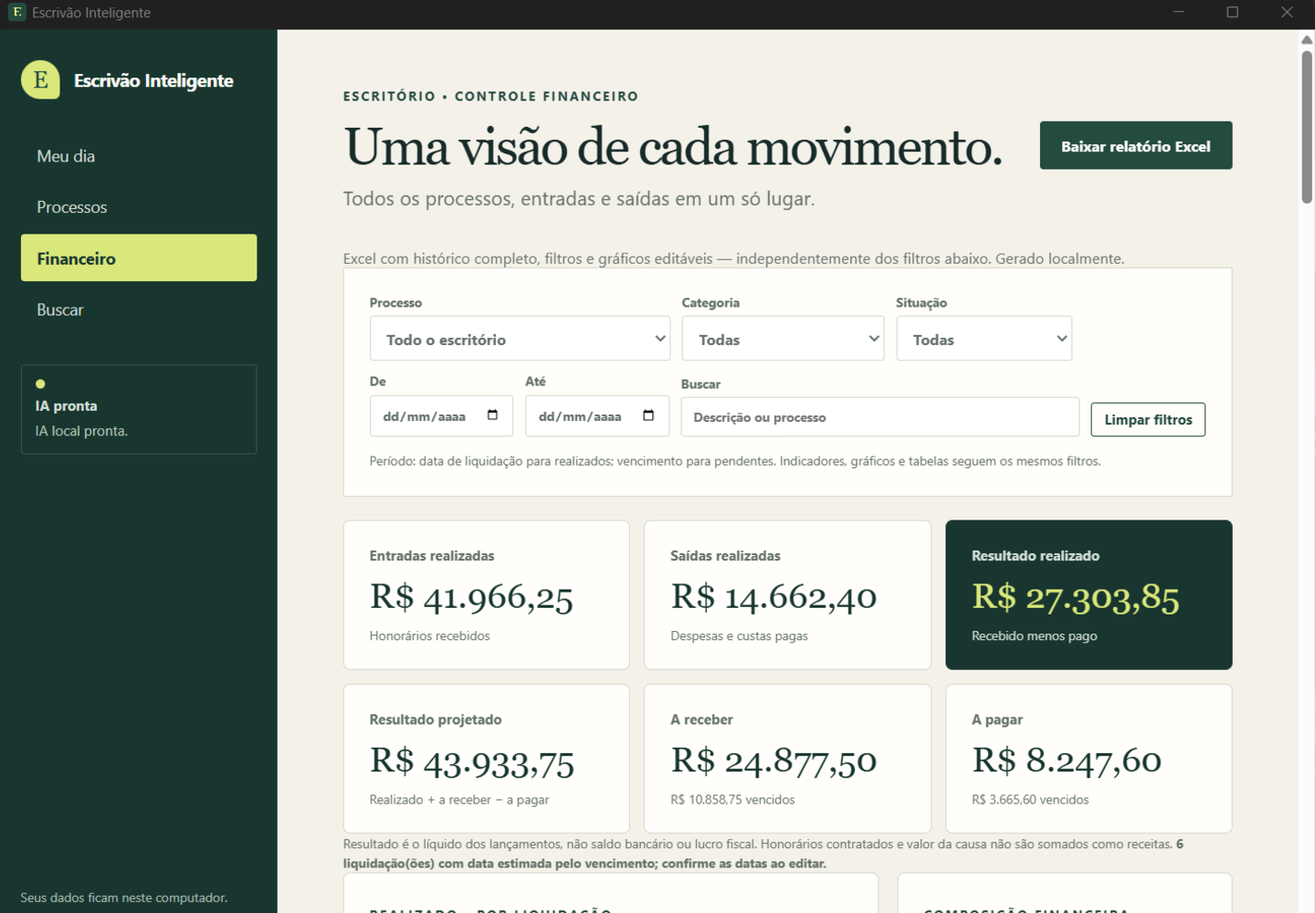
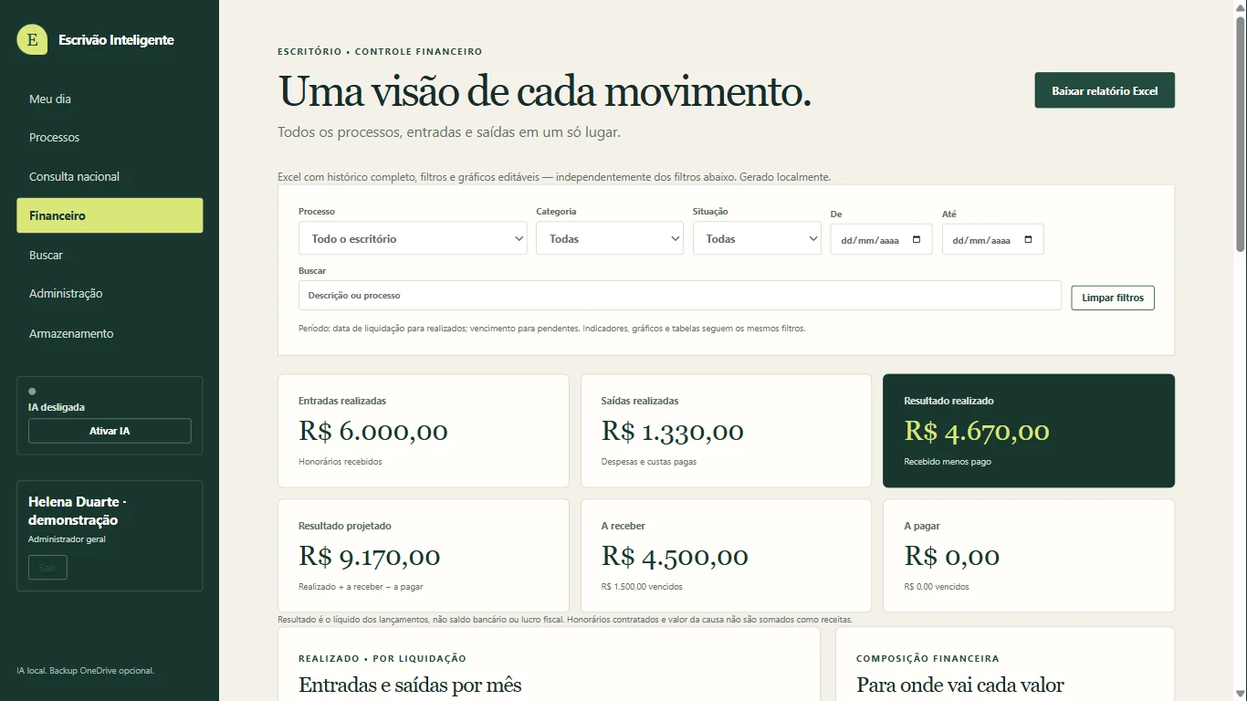
Update

diff --git a/index.html b/index.html
@@ -5,9 +5,9 @@
   <meta name="viewport" content="width=device-width, initial-scale=1">
   <meta name="theme-color" content="#18362f">
   <title>Escrivão Inteligente — seu escritório, com mais clareza</title>
-  <meta name="description" content="Processos, prazos, documentos e financeiro em um aplicativo para Windows. Conheça as telas, os relatórios Excel e a IA local do Escrivão Inteligente.">
+  <meta name="description" content="Gestão jurídica no Windows com IA local, consulta DataJud, conta Microsoft e backups particulares no OneDrive. Conheça os recursos e as telas demonstrativas.">
   <meta property="og:title" content="Escrivão Inteligente — seu escritório, com mais clareza">
-  <meta property="og:description" content="Da agenda ao financeiro, organize a rotina jurídica com documentos pesquisáveis e apoio de IA local no Windows.">
+  <meta property="og:description" content="Processos, documentos, financeiro e monitoramento DataJud, com IA local, conta Microsoft e backup opcional no seu OneDrive.">
   <meta property="og:type" content="website">
   <meta property="og:locale" content="pt_BR">
   <link rel="stylesheet" href="style.css">
@@ -33,20 +33,20 @@
       <div class="hero-content">
         <span class="eyebrow"><span class="status-dot" aria-hidden="true"></span> Para a advocacia · aplicativo Windows</span>
         <h1>Seu escritório.<br>Mais organizado.<br><em>Mais inteligente.</em></h1>
-        <p class="hero-copy">Do primeiro compromisso ao controle dos honorários: reúna processos, documentos e finanças em um só lugar. Com IA local para apoiar o trabalho — e você no controle de cada decisão.</p>
+        <p class="hero-copy">Da agenda ao acompanhamento processual: reúna processos, documentos e finanças, consulte metadados públicos do DataJud e trabalhe com IA local. Entre com sua conta Microsoft e mantenha backups no seu OneDrive — com você no controle.</p>
         <div class="hero-actions">
           <a class="button" href="https://apps.microsoft.com/detail/9NN8680NV66S" target="_blank" rel="noopener noreferrer">Conhecer na Microsoft Store <span aria-hidden="true">↗</span></a>
           <a class="text-link" href="#telas">Veja o app por dentro <span aria-hidden="true">↓</span></a>
         </div>
-        <p class="trial-note">Consulte preço, disponibilidade e condições de compra na Store.</p>
-        <ul class="hero-points" aria-label="Destaques"><li>Dados no dispositivo</li><li>Relatórios Excel</li><li>IA executada localmente</li></ul>
+        <p class="trial-note">Esta página apresenta o estado atual do desenvolvimento local. Novos recursos dependem de publicação de um novo pacote para chegar à Store. Consulte preço e disponibilidade na loja.</p>
+        <ul class="hero-points" aria-label="Destaques"><li>IA local</li><li>Consulta DataJud opt-in</li><li>Backup no seu OneDrive</li></ul>
       </div>
       <figure class="hero-preview">
-        <div class="preview-label"><span class="status-dot" aria-hidden="true"></span> UMA VISÃO DO SEU DIA <span>01 / 03</span></div>
-        <a class="screenshot-link" href="assets/meu-dia.webp" target="_blank" rel="noopener" aria-label="Abrir captura de Meu dia em tamanho completo (nova aba)">
-          <img src="assets/meu-dia.webp" width="1440" height="1000" alt="Tela Meu dia com compromissos de hoje, próximos sete dias e formulário para um novo compromisso." fetchpriority="high">
+        <div class="preview-label"><span class="status-dot" aria-hidden="true"></span> UMA VISÃO DO SEU DIA <span>DEMONSTRAÇÃO</span></div>
+        <a class="screenshot-link" href="assets/meu-dia.webp?v=20261027-tipografia" target="_blank" rel="noopener" aria-label="Abrir captura de Meu dia em tamanho completo (nova aba)">
+          <img src="assets/meu-dia.webp?v=20261027-tipografia" width="1366" height="768" alt="Tela Meu dia com compromissos de hoje, próximos sete dias e formulário para um novo compromisso." fetchpriority="high">
         </a>
-        <figcaption>Interface real · dados fictícios · captura no modo navegador</figcaption>
+        <figcaption>Interface atual · dados fictícios · 1366 × 768 · desktop simulado</figcaption>
         <div class="preview-note"><span aria-hidden="true">↗</span><div><strong>Comece pelo que importa hoje.</strong><span>Prazos, audiências e tarefas à vista.</span></div></div>
       </figure>
     </section>
@@ -68,10 +68,13 @@
         <div class="resource-grid">
           <article class="morning-card"><span class="card-number">01 / AGENDA</span><h3>Saiba o que pede atenção.</h3><p>Meu dia separa compromissos atrasados, de hoje e dos próximos sete dias. Cadastre prazos, audiências e tarefas, vincule ao processo e marque a conclusão.</p><span class="card-foot">Uma visão prática das prioridades</span></article>
           <article class="morning-card"><span class="card-number">02 / PROCESSOS</span><h3>O contexto de cada caso.</h3><p>Reúna cliente, partes, área, tribunal ou vara, situação, datas, valor da causa e honorários contratados. Filtre os cadastros e abra os detalhes do processo.</p><span class="card-foot">Informação conectada ao trabalho</span></article>
-          <article class="morning-card"><span class="card-number">03 / DOCUMENTOS E OCR</span><h3>Do digitalizado ao pesquisável.</h3><p>A nova versão local lê PDFs digitais, digitalizados e mistos, além de imagens PNG e JPG, com OCR em português e inglês. DOCX, TXT e MD continuam disponíveis. Consulte o texto por página e confira o original.</p><span class="card-foot">OCR local · sem envio de documentos</span></article>
-          <article class="morning-card"><span class="card-number">04 / BUSCA GLOBAL</span><h3>Procure além do nome do arquivo.</h3><p>Busque processos, clientes, compromissos e lançamentos financeiros. No desktop, encontre também trechos de documentos, com indicação de página ou trecho.</p><span class="card-foot">Do resultado ao registro de origem</span></article>
+          <article class="morning-card"><span class="card-number">03 / DOCUMENTOS E OCR</span><h3>Do digitalizado ao pesquisável.</h3><p>O desktop lê PDFs digitais, digitalizados e mistos, além de imagens PNG e JPG, com OCR em português e inglês. DOCX, TXT e MD também estão disponíveis. Consulte o texto por página e confira o original.</p><span class="card-foot">OCR local · sem envio de documentos</span></article>
+          <article class="morning-card"><span class="card-number">04 / BUSCA GLOBAL</span><h3>Procure além do nome do arquivo.</h3><p>Busque processos, clientes, compromissos, lançamentos financeiros e dados judiciais salvos. No desktop, encontre também trechos de documentos, com indicação de página ou trecho.</p><span class="card-foot">Do resultado ao registro de origem</span></article>
           <article class="morning-card"><span class="card-number">05 / FINANCEIRO</span><h3>Enxergue cada movimento.</h3><p>Acompanhe honorários, despesas e custas. Veja valores realizados, pendências e vencidos, com filtros por processo, categoria, situação e período.</p><span class="card-foot">Visão do escritório e de cada processo</span></article>
           <article class="morning-card"><span class="card-number">06 / IA LOCAL</span><h3>Um ponto de partida melhor.</h3><p>Faça perguntas com apoio dos registros e trechos recuperados, resuma documentos e prepare rascunhos. Confira as fontes e revise antes de usar.</p><span class="card-foot">Apoio à análise, não uma decisão jurídica</span></article>
+          <article class="morning-card"><span class="card-number">07 / CONSULTA NACIONAL</span><h3>Do CNJ à linha do tempo.</h3><p>Valide o número CNJ, identifique o tribunal e consulte metadados públicos no DataJud. Veja instâncias e movimentações, vincule ao processo local e arquive extratos no ECM.</p><span class="card-foot">Fonte e data da consulta sempre identificadas</span></article>
+          <article class="morning-card"><span class="card-number">08 / MONITORAMENTO</span><h3>Novidades para revisar.</h3><p>Sincronize processos monitorados, acompanhe mudanças entre consultas e crie tarefas de revisão. Configure cache e agendamento enquanto o aplicativo estiver aberto e o administrador conectado.</p><span class="card-foot">Não substitui intimações nem calcula prazos</span></article>
+          <article class="morning-card"><span class="card-number">09 / CONTA E BACKUP</span><h3>Seu acesso. Suas cópias.</h3><p>Um administrador vinculado à conta Microsoft, autenticação pelo Windows com alternativa pelo navegador e cópias completas opcionais na pasta local do seu OneDrive.</p><span class="card-foot">Sem cadastro de aplicativo pelo usuário final</span></article>
         </div>
       </div>
     </section>
@@ -80,15 +83,31 @@
       <div class="wrap">
         <div class="section-heading">
           <div><span class="eyebrow">O app por dentro</span><h2>Não é só uma ideia.<br>É a sua próxima tela.</h2></div>
-          <p class="section-intro">Capturas reais da interface atual, preenchidas exclusivamente com dados fictícios. Feitas no modo navegador; importação de documentos e IA são recursos do aplicativo desktop. Toque nas imagens para ampliar em uma nova aba.</p>
+          <p class="section-intro">Interface atual com tipografia mais compacta, capturada em 1366 × 768, resolução comum em notebooks de 15 polegadas. Todas as telas usam dados fictícios e uma ponte desktop simulada no navegador: não demonstram uma sessão Microsoft, consulta judicial ou backup reais. Toque para ampliar em uma nova aba.</p>
         </div>
         <article class="screen-row">
           <div class="screen-copy"><span class="card-number">01 / PROCESSOS</span><h3>Cada caso com o seu contexto.</h3><p>Consulte os processos e seus dados principais sem começar uma nova busca a cada tarefa. O cadastro reúne informações jurídicas e financeiras para facilitar a continuidade do trabalho.</p><ul class="check-list"><li>Cliente, área e situação do processo</li><li>Valor da causa e honorários contratados</li><li>Compromissos e documentos vinculados</li></ul></div>
-          <figure class="screen-frame"><a class="screenshot-link" href="assets/processos.webp" target="_blank" rel="noopener" aria-label="Ampliar captura da tela Processos (nova aba)"><img src="assets/processos.webp" alt="Lista de três processos fictícios nas áreas cível, trabalhista e família, com clientes, honorários e situação." width="1440" height="1000" loading="lazy" decoding="async"></a><figcaption>Processos · interface real com dados fictícios</figcaption></figure>
+          <figure class="screen-frame"><a class="screenshot-link" href="assets/processos.webp?v=20261027-tipografia" target="_blank" rel="noopener" aria-label="Ampliar captura da tela Processos (nova aba)"><img src="assets/processos.webp?v=20261027-tipografia" alt="Lista de três processos fictícios nas áreas cível, trabalhista e família, com clientes, honorários e situação." width="1366" height="768" loading="lazy" decoding="async"></a><figcaption>Processos · interface real com dados fictícios</figcaption></figure>
         </article>
         <article class="screen-row screen-row-reverse">
           <div class="screen-copy"><span class="card-number">02 / FINANCEIRO</span><h3>Do lançamento à visão do escritório.</h3><p>Entenda o que já entrou, o que saiu e o que ainda está pendente. Consulte indicadores, gráficos e tabelas com os mesmos filtros, sem desconectar os números dos processos.</p><ul class="check-list"><li>Entradas, saídas e resultado realizado</li><li>Pendências e valores vencidos</li><li>Análises por mês, categoria e processo</li></ul></div>
-          <figure class="screen-frame"><a class="screenshot-link" href="assets/financeiro.webp?v=46670eb1058f" target="_blank" rel="noopener" aria-label="Ampliar captura do painel Financeiro (nova aba)"><img src="assets/financeiro.webp?v=46670eb1058f" alt="Painel financeiro com filtros, indicadores de entradas e saídas, pendências e gráficos de movimentações fictícias." width="1440" height="1000" loading="lazy" decoding="async"></a><figcaption>Financeiro · valores ilustrativos, não resultados de clientes</figcaption></figure>
+          <figure class="screen-frame"><a class="screenshot-link" href="assets/financeiro.webp?v=20261027-tipografia" target="_blank" rel="noopener" aria-label="Ampliar captura do painel Financeiro (nova aba)"><img src="assets/financeiro.webp?v=20261027-tipografia" alt="Painel financeiro com filtros, indicadores de entradas e saídas, pendências e gráficos de movimentações fictícias." width="1366" height="768" loading="lazy" decoding="async"></a><figcaption>Financeiro · valores ilustrativos, não resultados de clientes</figcaption></figure>
+        </article>
+        <article class="screen-row">
+          <div class="screen-copy"><span class="card-number">03 / CONSULTA NACIONAL</span><h3>Acompanhe o processo, com a fonte à vista.</h3><p>Da consulta à revisão de novidades: mantenha metadados públicos do CNJ junto ao trabalho local, sem sobrescrever o cadastro existente.</p><ul class="check-list"><li>Tribunal, instâncias, origem e data da consulta</li><li>Movimentações, monitoramento e tarefas de revisão</li><li>Extratos no ECM e contexto para a IA local</li></ul></div>
+          <figure class="screen-frame"><a class="screenshot-link" href="assets/consulta-nacional.webp?v=20261027-tipografia" target="_blank" rel="noopener" aria-label="Ampliar demonstração da Consulta nacional (nova aba)"><img src="assets/consulta-nacional.webp?v=20261027-tipografia" alt="Demonstração da consulta nacional com metadados fictícios, movimentações e ações de vínculo ao ECM e monitoramento." width="1366" height="768" loading="lazy" decoding="async"></a><figcaption>Interface atual · ponte desktop simulada · nenhum processo real consultado</figcaption></figure>
+        </article>
+        <article class="screen-row screen-row-reverse">
+          <div class="screen-copy"><span class="card-number">04 / MONITOR PROCESSUAL</span><h3>Uma novidade.<br>Um próximo passo.</h3><p>Revise o que mudou desde a consulta anterior, filtre por cliente, processo, tribunal e período de detecção e transforme uma novidade em tarefa com data informada por você.</p><ul class="check-list"><li>Sincronização dos processos monitorados</li><li>Data do ato e data de detecção separadas</li><li>Revisão explícita, sem confundir com intimação</li></ul></div>
+          <figure class="screen-frame"><a class="screenshot-link" href="assets/monitor-processual.webp?v=20261027-tipografia" target="_blank" rel="noopener" aria-label="Ampliar demonstração do monitor processual (nova aba)"><img src="assets/monitor-processual.webp?v=20261027-tipografia" alt="Monitor processual com filtros, sincronização demonstrativa e uma movimentação fictícia pendente de revisão, com ação para criar tarefa." width="1366" height="768" loading="lazy" decoding="async"></a><figcaption>Interface atual · sincronização e novidade simuladas · dados fictícios</figcaption></figure>
+        </article>
+        <article class="screen-row">
+          <div class="screen-copy"><span class="card-number">05 / ARMAZENAMENTO</span><h3>O trabalho fica local.<br>A cópia vai com você.</h3><p>Escolha o computador ou uma USB removível para o repositório ativo. Autorize backups consistentes na sua pasta OneDrive, com banco e documentos originais verificados.</p><ul class="check-list"><li>Uma cópia diária ao abrir, após ativação</li><li>Backup manual em pasta datada independente</li><li>Sincronização e versões geridas pelo OneDrive</li></ul></div>
+          <figure class="screen-frame"><a class="screenshot-link" href="assets/armazenamento.webp?v=20261027-tipografia" target="_blank" rel="noopener" aria-label="Ampliar demonstração de armazenamento e backup (nova aba)"><img src="assets/armazenamento.webp?v=20261027-tipografia" alt="Demonstração de armazenamento local e USB, com backup diário no OneDrive ativado e botão para gerar nova cópia." width="1366" height="768" loading="lazy" decoding="async"></a><figcaption>Interface atual · conta, caminhos e confirmação de backup fictícios</figcaption></figure>
+        </article>
+        <article class="screen-row screen-row-reverse">
+          <div class="screen-copy"><span class="card-number">06 / CONTA MICROSOFT</span><h3>Um administrador.<br>A sua conta Microsoft.</h3><p>O registro usa a integração do Windows para autenticar a conta Microsoft. A Microsoft pode solicitar senha, seleção de conta e segundo fator; se o acesso nativo falhar, há uma alternativa explícita pelo navegador.</p><ul class="check-list"><li>Contas pessoais e organizacionais compatíveis</li><li>Sem senha local nem configuração de Entra pelo usuário</li><li>OneDrive configurado e autorizado separadamente</li></ul></div>
+          <figure class="screen-frame"><a class="screenshot-link" href="assets/conta-microsoft.webp?v=20261027-tipografia" target="_blank" rel="noopener" aria-label="Ampliar demonstração da conta Microsoft (nova aba)"><img src="assets/conta-microsoft.webp?v=20261027-tipografia" alt="Administração com uma conta Microsoft fictícia vinculada como administrador geral e orientação sobre a conta OneDrive." width="1366" height="768" loading="lazy" decoding="async"></a><figcaption>Interface atual · identidade fictícia · nenhuma autenticação real realizada</figcaption></figure>
         </article>
         <div class="export-callout"><div><span class="eyebrow">Seus números também fora do app</span><h3>Um relatório Excel que continua útil.</h3><p>Exporte o histórico financeiro completo em .xlsx, com filtros e gráficos editáveis, gerado localmente. A exportação inclui todos os lançamentos, independentemente dos filtros ativos no painel.</p></div><span class="file-chip" aria-label="Formato Excel">.xlsx <span aria-hidden="true">↗</span></span></div>
       </div>
@@ -98,7 +117,7 @@
       <div class="wrap spread">
         <div><span class="eyebrow">Inteligência artificial, com critério</span><h2>Um apoio para começar.<br><em>O julgamento continua seu.</em></h2><p class="section-intro">No desktop, a IA roda no próprio computador usando o runtime llama.cpp. Ela apoia a consulta ao acervo e a preparação de conteúdo, sem substituir a análise profissional.</p><a class="text-link" href="#duvidas">Entenda os recursos e os limites <span aria-hidden="true">↗</span></a></div>
         <div class="ai-steps">
-          <article><span>01</span><div><h3>Pergunte com contexto</h3><p>Consulte informações do escritório e trechos recuperados. Use as fontes apresentadas para conferir a resposta.</p></div></article>
+          <article><span>01</span><div><h3>Pergunte com contexto</h3><p>Consulte informações do escritório, trechos recuperados e metadados judiciais de processos vinculados. Peça explicações de movimentações e linhas do tempo, conferindo fonte, tribunal e datas.</p></div></article>
           <article><span>02</span><div><h3>Resuma e prepare rascunhos</h3><p>Use os documentos como ponto de partida para resumos e tipos predefinidos de rascunhos. Continue trabalhando enquanto a IA executa a tarefa.</p></div></article>
           <article><span>03</span><div><h3>Revise e leve para o Word</h3><p>Confira o texto, confronte o documento original e exporte o conteúdo gerado em .docx para continuar a edição.</p></div></article>
         </div>
@@ -109,14 +128,14 @@
       <div class="wrap">
         <div class="section-heading">
           <div><span class="eyebrow">Local por arquitetura</span><h2>Seus dados de trabalho,<br>no seu dispositivo.</h2></div>
-          <p class="section-intro">No aplicativo desktop, o banco, os documentos importados e o índice de pesquisa ficam na área de dados local. A IA processa as solicitações em um servidor local no próprio computador.</p>
+          <p class="section-intro">O banco, os documentos e o índice ficam no computador ou em uma USB removível escolhida. A IA roda neste computador. Você decide se autoriza consultas DataJud e backups na pasta local do seu OneDrive.</p>
         </div>
         <div class="privacy-grid">
-          <article class="privacy-card"><span>01</span><h3>Sem nuvem própria de processos</h3><p>O app atual não implementa um serviço próprio de sincronização ou armazenamento dos casos em nuvem.</p></article>
-          <article class="privacy-card"><span>02</span><h3>Proteção também é rotina</h3><p>O aplicativo não oferece criptografia própria em repouso nem backup integrado. Proteja o dispositivo e mantenha cópias de segurança.</p></article>
+          <article class="privacy-card"><span>01</span><h3>Backup particular, opcional</h3><p>As cópias completas vão para OneDrive → Escrivão Inteligente → Backups. O cliente OneDrive gerencia o envio à nuvem e seu histórico; isso não sincroniza o repositório ativo entre computadores.</p></article>
+          <article class="privacy-card"><span>02</span><h3>Proteção também é rotina</h3><p>O app não adiciona criptografia ao banco, aos documentos ou aos backups. Proteja o disco, use segundo fator na conta e evite compartilhar a pasta. Uma chave DataJud própria é protegida pelo Windows e não integra o backup.</p></article>
           <article class="privacy-card"><span>03</span><h3>Transparência antes da compra</h3><p>Arquitetura local não é certificação de segurança ou garantia de conformidade com a LGPD. Conheça a <a href="politica-de-privacidade.html">política de privacidade</a>.</p></article>
         </div>
-        <p class="privacy-foot">Não prometemos ausência total de tráfego externo: instalação, atualização e licenciamento podem envolver a Microsoft Store e componentes do Windows.</p>
+        <p class="privacy-foot">Há tráfego externo para autenticação Microsoft, serviços da Store e Windows, sincronização OneDrive autorizada e consultas DataJud opt-in. Uma consulta envia o número CNJ ao CNJ; os documentos do acervo não são enviados ao DataJud.</p>
       </div>
     </section>
 
@@ -124,7 +143,11 @@
       <div class="wrap faq-layout">
         <div><span class="eyebrow">Decida com clareza</span><h2>Antes de trazer<br>o app para sua rotina.</h2><p class="section-intro">Recursos atuais, limites claros e nenhuma promessa de resultado automático.</p><a class="text-link" href="mailto:marcos.nunes.lph@outlook.com">Falar com o desenvolvedor <span aria-hidden="true">↗</span></a></div>
         <div class="faq-list">
-          <details open><summary>Para quem é o Escrivão Inteligente?</summary><p>Para profissionais da advocacia que buscam organização local de processos, compromissos, documentos e finanças no Windows. O produto atual não oferece sincronização em nuvem ou colaboração multiusuário.</p></details>
+          <details open><summary>Para quem é o Escrivão Inteligente?</summary><p>Para profissionais da advocacia que buscam gestão local no Windows, com um único administrador Microsoft. O backup opcional no OneDrive não é colaboração multiusuário nem sincronização do banco ativo entre dispositivos.</p></details>
+          <details><summary>Preciso registrar um aplicativo na Microsoft para entrar?</summary><p>Não. A integração já acompanha o aplicativo. Clique para registrar com Microsoft e conclua a autenticação solicitada pelo Windows, incluindo senha ou segundo fator quando exigidos. Há alternativa pelo navegador após falha do acesso nativo. A conta autorizada na pasta OneDrive deve ser conferida separadamente.</p></details>
+          <details><summary>O que a Consulta nacional realmente consulta?</summary><p>Após autorização em Administração → Integrações Processuais, o app consulta a API pública DataJud, com validação do CNJ, cache, tentativas controladas e identificação da fonte. O retorno pode estar atrasado e não inclui processos sigilosos, partes, advogados nem inteiro teor. Não é uma conexão direta universal com PJe, Eproc, e-SAJ ou Projudi. Esses conectores dependem de contrato e acesso autorizado; o SCMPP do TJPR, por exemplo, exige adesão formal e credenciais.</p></details>
+          <details><summary>O monitoramento substitui o acompanhamento de intimações?</summary><p>Não. Ele detecta mudanças entre consultas salvas, permite revisão e criação de tarefas e executa sincronização manual, em lote ou agendada com o app aberto e o administrador conectado. Não é um serviço em segundo plano do Windows, não recebe intimações oficiais nem calcula prazos legais.</p></details>
+          <details><summary>Como funciona o backup no OneDrive?</summary><p>Ao autorizar uma pasta OneDrive, o app gera uma cópia consistente do banco e dos documentos, imediatamente, uma vez por dia ao abrir e sob demanda. Cada backup ocupa uma pasta datada independente. Confirme a sincronização no cliente OneDrive: envio à nuvem, cota e histórico dependem dele e da conta. Não use a pasta de backup como repositório ativo nem abra a mesma base em dois computadores.</p></details>
           <details><summary>O aplicativo funciona no celular?</summary><p>Este site se adapta a celular, tablet e computador. O produto apresentado é um aplicativo desktop para Windows. O modo navegador do app é limitado: mantém cadastros básicos localmente, mas importação, leitura e busca documental e IA exigem o desktop.</p></details>
           <details><summary>A IA precisa enviar os documentos para a nuvem?</summary><p>O fluxo atual usa o modelo Qwen3-4B, em formato GGUF quantizado Q4_K_M, executado pelo llama.cpp no próprio computador. Perguntas, instruções e trechos são processados pelo servidor local. A velocidade depende do hardware; não há garantia de desempenho igual em todos os dispositivos.</p></details>
           <details><summary>Como funciona a leitura de PDFs e imagens por OCR?</summary><p>O OCR está implementado na nova versão local do desktop; sua disponibilidade na Microsoft Store depende da atualização do pacote publicado. PDFs mantêm o texto nativo quando a página tem texto suficiente; nas demais páginas, o Tesseract reconhece a imagem localmente, em português e inglês. PNG, JPG e JPEG também são aceitos, junto de DOCX, TXT e MD, até 200 MB por arquivo. Os modelos acompanham o aplicativo, sem download durante a leitura. A origem e a confiança do reconhecimento aparecem no leitor, com aviso abaixo de 70% ou quando não há texto reconhecido. Nitidez, orientação e diagramação afetam o resultado; revise sempre o original. Não há garantia de leitura de manuscritos ou de qualquer PDF. A busca continua por palavras-chave, não semântica.</p></details>

diff --git a/politica-de-privacidade.html b/politica-de-privacidade.html
@@ -20,7 +20,7 @@
   <main class="wrap">
     <span class="eyebrow">Documento legal</span>
     <h1>Política de Privacidade</h1>
-    <p class="updated">Última atualização: 25 de outubro de 2026</p>
+    <p class="updated">Última atualização: 27 de outubro de 2026</p>
 
     <div class="notice">Esta política descreve o comportamento atualmente observado no aplicativo. O Escrivão Inteligente está em evolução; consulte também as limitações do produto e as condições de licenciamento da Microsoft Store.</div>
 
@@ -54,8 +54,10 @@
 
       <section id="s3">
         <h2>3. Armazenamento no aplicativo desktop</h2>
-        <p>Na versão desktop observada, o banco SQLite, os arquivos importados e os dados de pesquisa são armazenados localmente na área de dados do aplicativo no Windows. A busca indexa texto extraído para localizar trechos e páginas. Não há serviço próprio de sincronização ou armazenamento em nuvem implementado no aplicativo.</p>
+        <p>O banco SQLite, os arquivos importados e os dados de pesquisa ficam na área de dados do aplicativo no Windows ou em uma USB removível elegível escolhida pelo administrador. A busca indexa texto extraído para localizar trechos e páginas. A versão em desenvolvimento oferece backups completos opcionais na pasta local do OneDrive do usuário, após confirmação da conta e autorização explícita. A disponibilidade na Store depende da atualização do pacote publicado.</p>
+        <p>Quando habilitados, os backups incluem banco, documentos, usuários e auditoria: são criados imediatamente, uma vez por dia ao abrir e por solicitação manual. O cliente OneDrive do Windows pode enviá-los à conta Microsoft escolhida, conforme sua configuração, cota e políticas. O aplicativo não confirma o envio remoto nem fornece serviço próprio de nuvem. As cópias não recebem criptografia adicional pelo aplicativo; confira conta, compartilhamento e sincronização.</p>
         <p>Isso não significa que o produto tenha sido certificado como totalmente offline: o tráfego de rede do pacote distribuído não foi auditado integralmente. A instalação, a atualização e a validação de licença podem envolver a Microsoft Store e componentes do Windows.</p>
+        <p>A integração processual DataJud é opcional e desativada por padrão. Quando autorizada, envia o número CNJ consultado à API oficial do Conselho Nacional de Justiça e obtém a chave pública na Wiki oficial. Os metadados e movimentações retornados ficam no repositório local e podem integrar seus backups. Não são enviados ao desenvolvedor nem a uma IA externa. O serviço público não fornece partes, advogados ou documentos integrais; ausência de resultado não comprova inexistência de processo. Uma chave personalizada é protegida pelo perfil Windows e não integra os backups do repositório. O agendamento só executa com o aplicativo aberto e o administrador conectado. Consultas não substituem intimações oficiais nem garantem atualização imediata.</p>
         <p>O modo navegador é limitado: dados básicos ficam no armazenamento local daquele navegador. Importação, leitura e busca de documentos e recursos de IA exigem o aplicativo desktop.</p>
       </section>
 
@@ -68,15 +70,16 @@
 
       <section id="s5">
         <h2>5. Diagnósticos e conexões externas</h2>
+        <p>O aplicativo usa autenticação Microsoft integrada ao Windows (WAM) para o administrador geral, com contas pessoais ou de trabalho/escola e registro compartilhado mantido pelo desenvolvedor. Não é necessário que o usuário registre um aplicativo. A Microsoft gerencia seleção de conta, senha, autenticação em duas etapas e consentimento quando necessários. Se o login nativo falhar, o usuário pode escolher a alternativa pelo navegador. A Microsoft processa os dados de autenticação conforme suas políticas. O aplicativo recebe identificação estável, nome e identificador de e-mail quando disponíveis; guarda o vínculo no banco para controle de acesso e auditoria, mas não lê nem guarda a senha Microsoft. O cache de tokens do aplicativo fica em memória e é descartado ao concluir, sem envio ao desenvolvedor nem inclusão nos backups. O WAM mantém seu próprio cache protegido pelo Windows para login único; sair do aplicativo não desconecta a conta do Windows. O login requer internet; com várias contas ou sem conta Microsoft conectada ao Windows, a Microsoft pode pedir seleção ou adição de conta.</p>
         <p>O aplicativo registra eventos estruturados de diagnóstico para investigar falhas e operações. Os campos permitidos incluem canal, identificadores numéricos, categorias, contagens, duração e códigos de erro. Os logs não devem conter conteúdo de documentos, nomes de clientes, prompts, respostas ou mensagens de exceção.</p>
         <p>Essa configuração foi coberta por testes automatizados, mas retenção e rotação de logs, crash reports do sistema e todo o tráfego de rede do pacote final ainda não foram auditados. Não anunciamos ausência total de coleta ou de conexões externas antes dessa auditoria.</p>
       </section>
 
       <section id="s6">
         <h2>6. Segurança, exclusão e retenção</h2>
-        <p>O aplicativo não implementa criptografia própria em repouso para o banco SQLite ou para os documentos importados. Os arquivos permanecem sujeitos às permissões e proteções do dispositivo. Recomendamos proteger a conta e o disco do computador e manter backups seguros, pois o aplicativo ainda não oferece backup e restauração integrados.</p>
+        <p>O aplicativo não implementa criptografia própria em repouso para o banco SQLite ou para os documentos importados, inclusive backups. Os arquivos permanecem sujeitos às permissões e proteções do dispositivo e da conta de armazenamento. Recomendamos criptografia de disco, autenticação em dois fatores na conta Microsoft e backups privados. A versão em desenvolvimento oferece geração de backups OneDrive, mas a restauração é manual, com o aplicativo fechado e cópia para uma pasta fora do OneDrive; não use um banco ativo em dois computadores.</p>
         <p>O app oferece operações para excluir processos e documentos, inclusive registros e arquivos associados nos fluxos implementados. Isso não equivale a apagamento seguro de todos os vestígios possíveis do dispositivo, como cópias de segurança, snapshots ou mecanismos do sistema operacional.</p>
-        <p>Os dados permanecem no dispositivo até que você os exclua ou remova o armazenamento local do aplicativo. Defina sua própria política de retenção de acordo com suas obrigações profissionais e legais.</p>
+        <p>Dados e backups permanecem nos locais escolhidos até exclusão. Desativar os backups ou limpar as cópias locais do aplicativo não apaga as cópias OneDrive. Não há expurgo automático dessas versões; sua exclusão e a retenção na nuvem são gerenciadas pelo usuário e pelo OneDrive. Defina sua política de retenção de acordo com suas obrigações profissionais e legais.</p>
       </section>
 
       <section id="s7">
